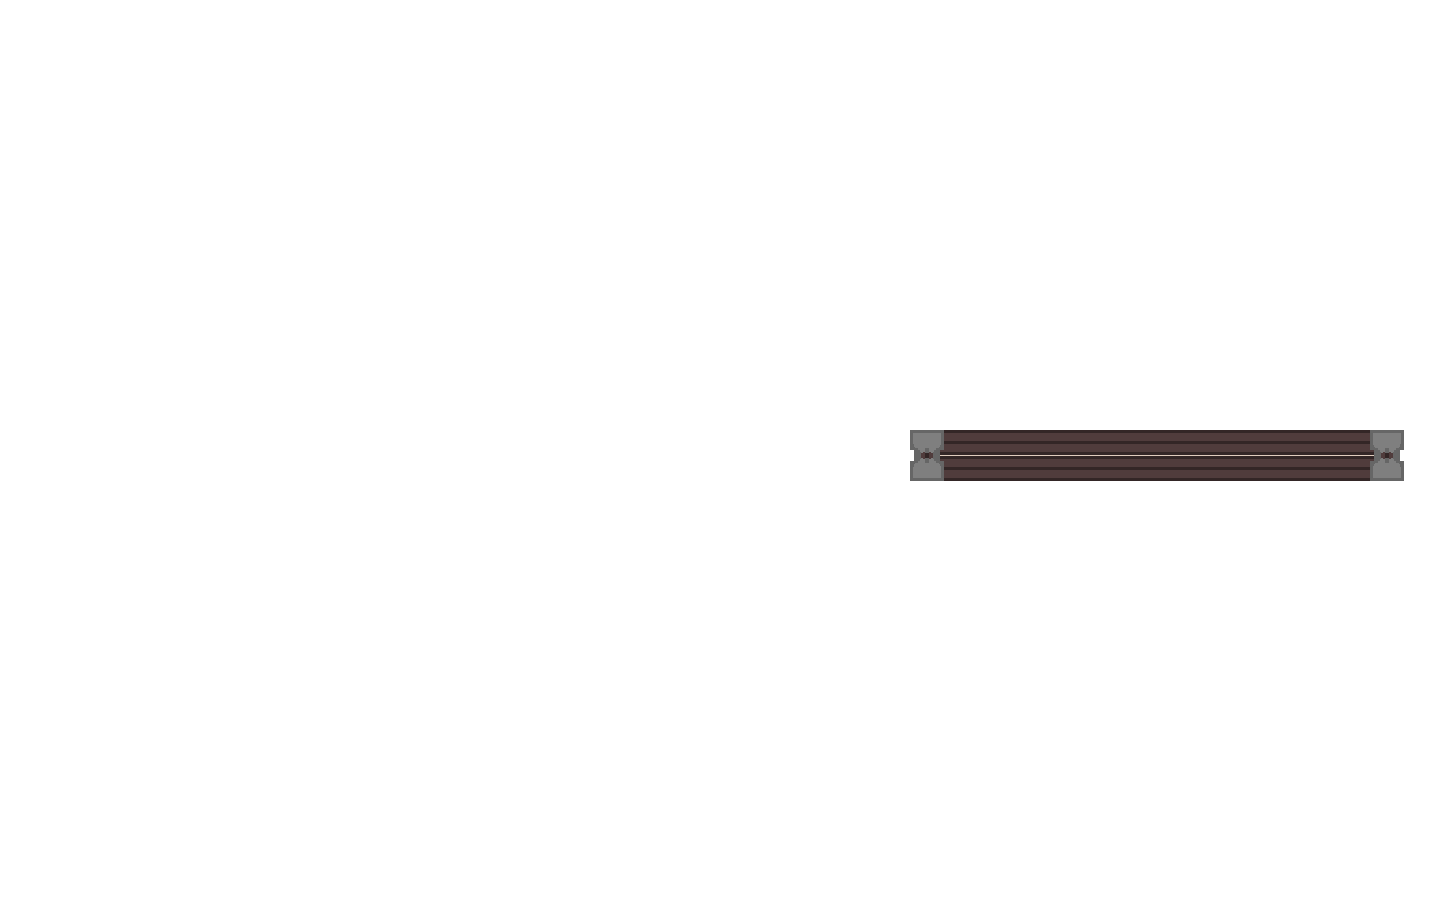
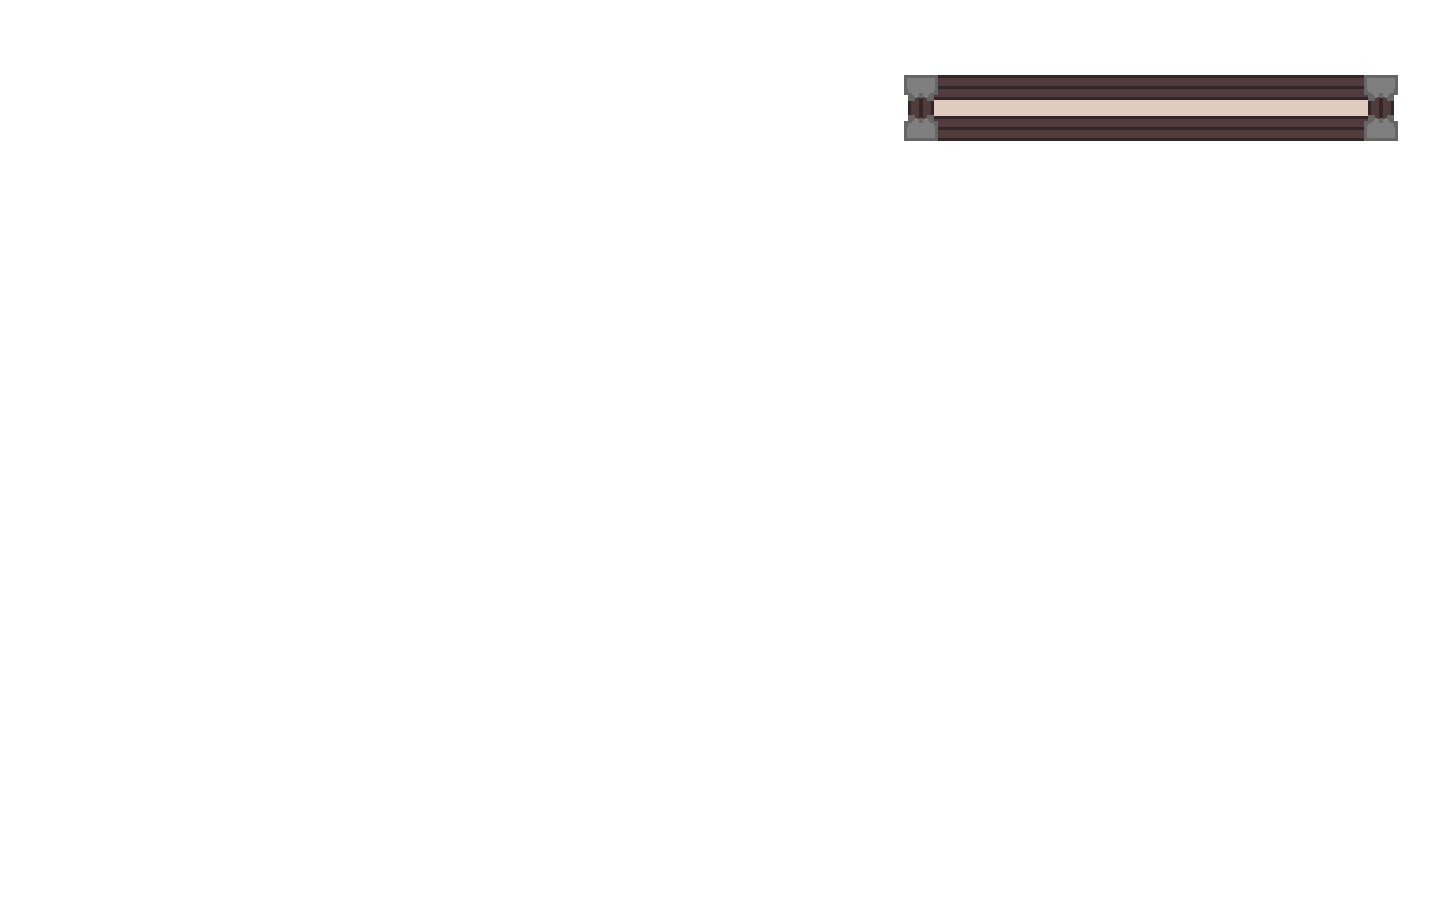
Fixing scroll transition animation

Changed region(s): [[0.625, 0.4667, 1.0, 0.56], [0.625, 0.0622, 0.9688, 0.1556]]

diff --git a/gameplay.py b/gameplay.py
@@ -278,18 +278,20 @@ def walkup(background):
     pygame.display.flip()
     pygame.time.delay(1500)
 
+    # Allies walk up
     for i in range(10):
         DISPLAYSURF.blit(background, (0, 0))
         DISPLAYSURF.blit(enemy_image, (280, 75))
         DISPLAYSURF.blit(player1_image, (280, 1640 - 119*(i+1)))
         DISPLAYSURF.blit(player2_image, (120, 1640 - 119*(i+1)))
         pygame.display.flip()
-        pygame.time.delay(5)
+        pygame.time.delay(15)
 
+    # Scroll UI opens
     pygame.time.delay(500)
-    for i in range(5):
+    for i in range(11):
         DISPLAYSURF.blit(background, (0, 0))
-        DISPLAYSURF.blit(pygame.image.load(f'artwork/transition{(i+1)*2}.png'), (0, 0))
+        DISPLAYSURF.blit(pygame.image.load(f'artwork/transition{i+1}.png'), (0, 0))
         DISPLAYSURF.blit(enemy_image, (280, 75))
         DISPLAYSURF.blit(player1_image, (280, 450))
         DISPLAYSURF.blit(player2_image, (120, 450))

diff --git a/README.md b/README.md
@@ -50,8 +50,10 @@ All of the colors used in the game.
 - Make start screen
 - CLean up global variables, replace with parameters?
 - Rename sounds
-- Make a scroll opening down animation instead of poor middle animation
+- Smoothen scroll animation
 - Make separate draw function for drawing enemy and characters
+- Fix splash location and enemy / character sizes and location
+- Make walk away
 
 # Ideas
 - Make ogre
